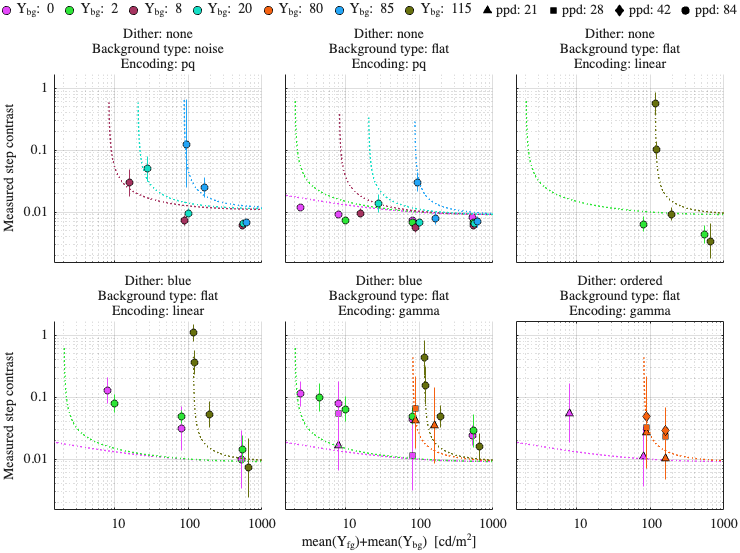
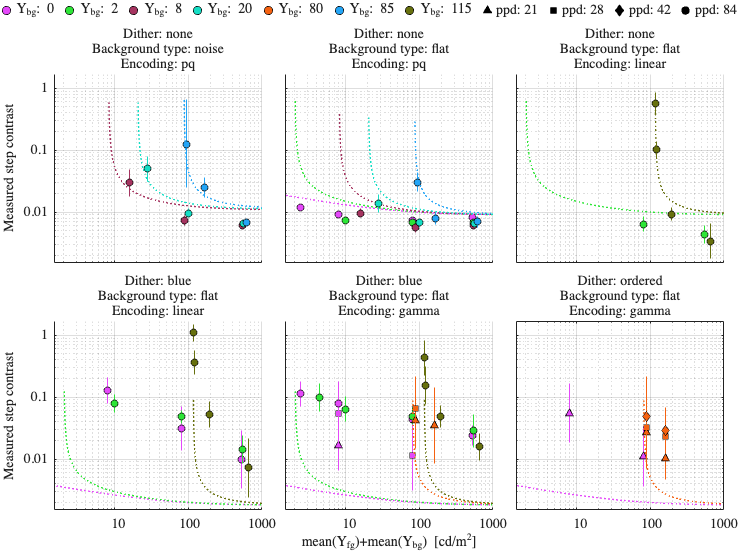
dither model

diff --git a/share/ar_banding_reports/daly_masking/index.html b/share/ar_banding_reports/daly_masking/index.html
@@ -21,7 +21,7 @@ function detectLeftButton(evt) {
 	p.beta_cc = 1;
 	p.gs_num = [ 0.462195 0.2 0.965358 ];
 	p.noise_params = [ 0.226448 0.434877 0.444541 ];
-	p.dither_params.value = [ 0.5 0.5 0.5 ];
+	p.dither_params.value = [ 2.48547 3.6854 5.3836 ];
 </div>
 </div>
 <h2>Dataset: [ar2025]</h2>
